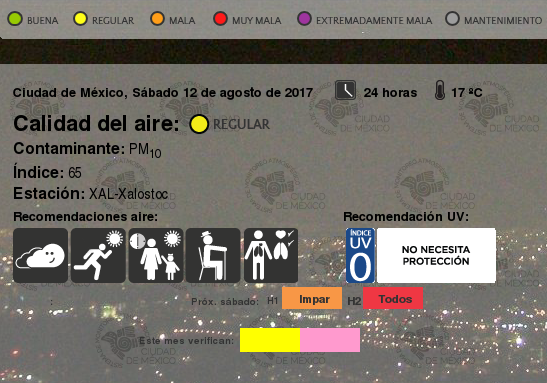
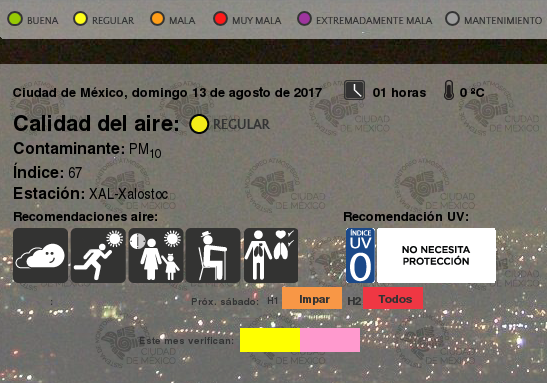
update images 13-08-2017 01:40

diff --git a/README.md b/README.md
@@ -12068,3 +12068,4 @@
 |13-08-2017 01:03
 |13-08-2017 01:11
 |13-08-2017 01:20
+|13-08-2017 01:40
